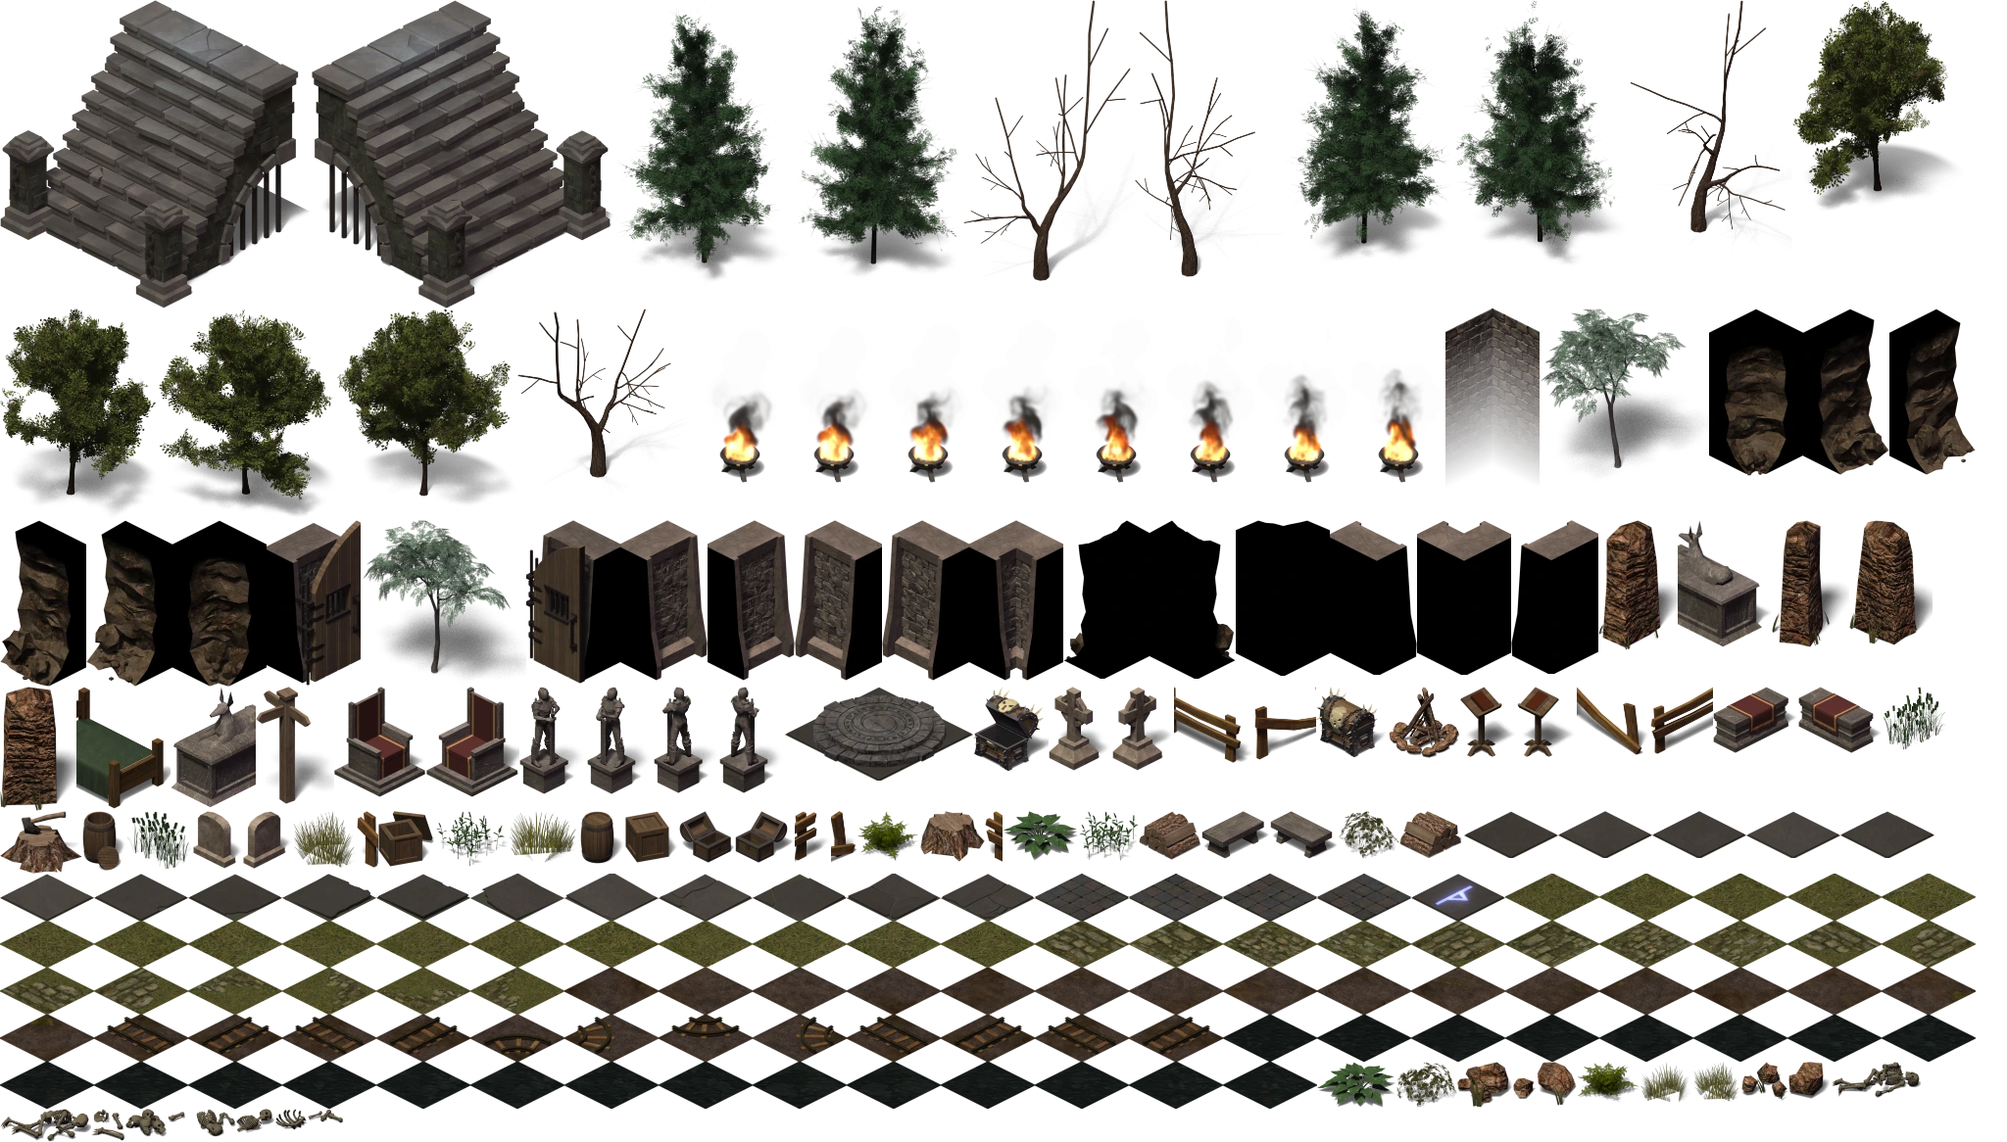
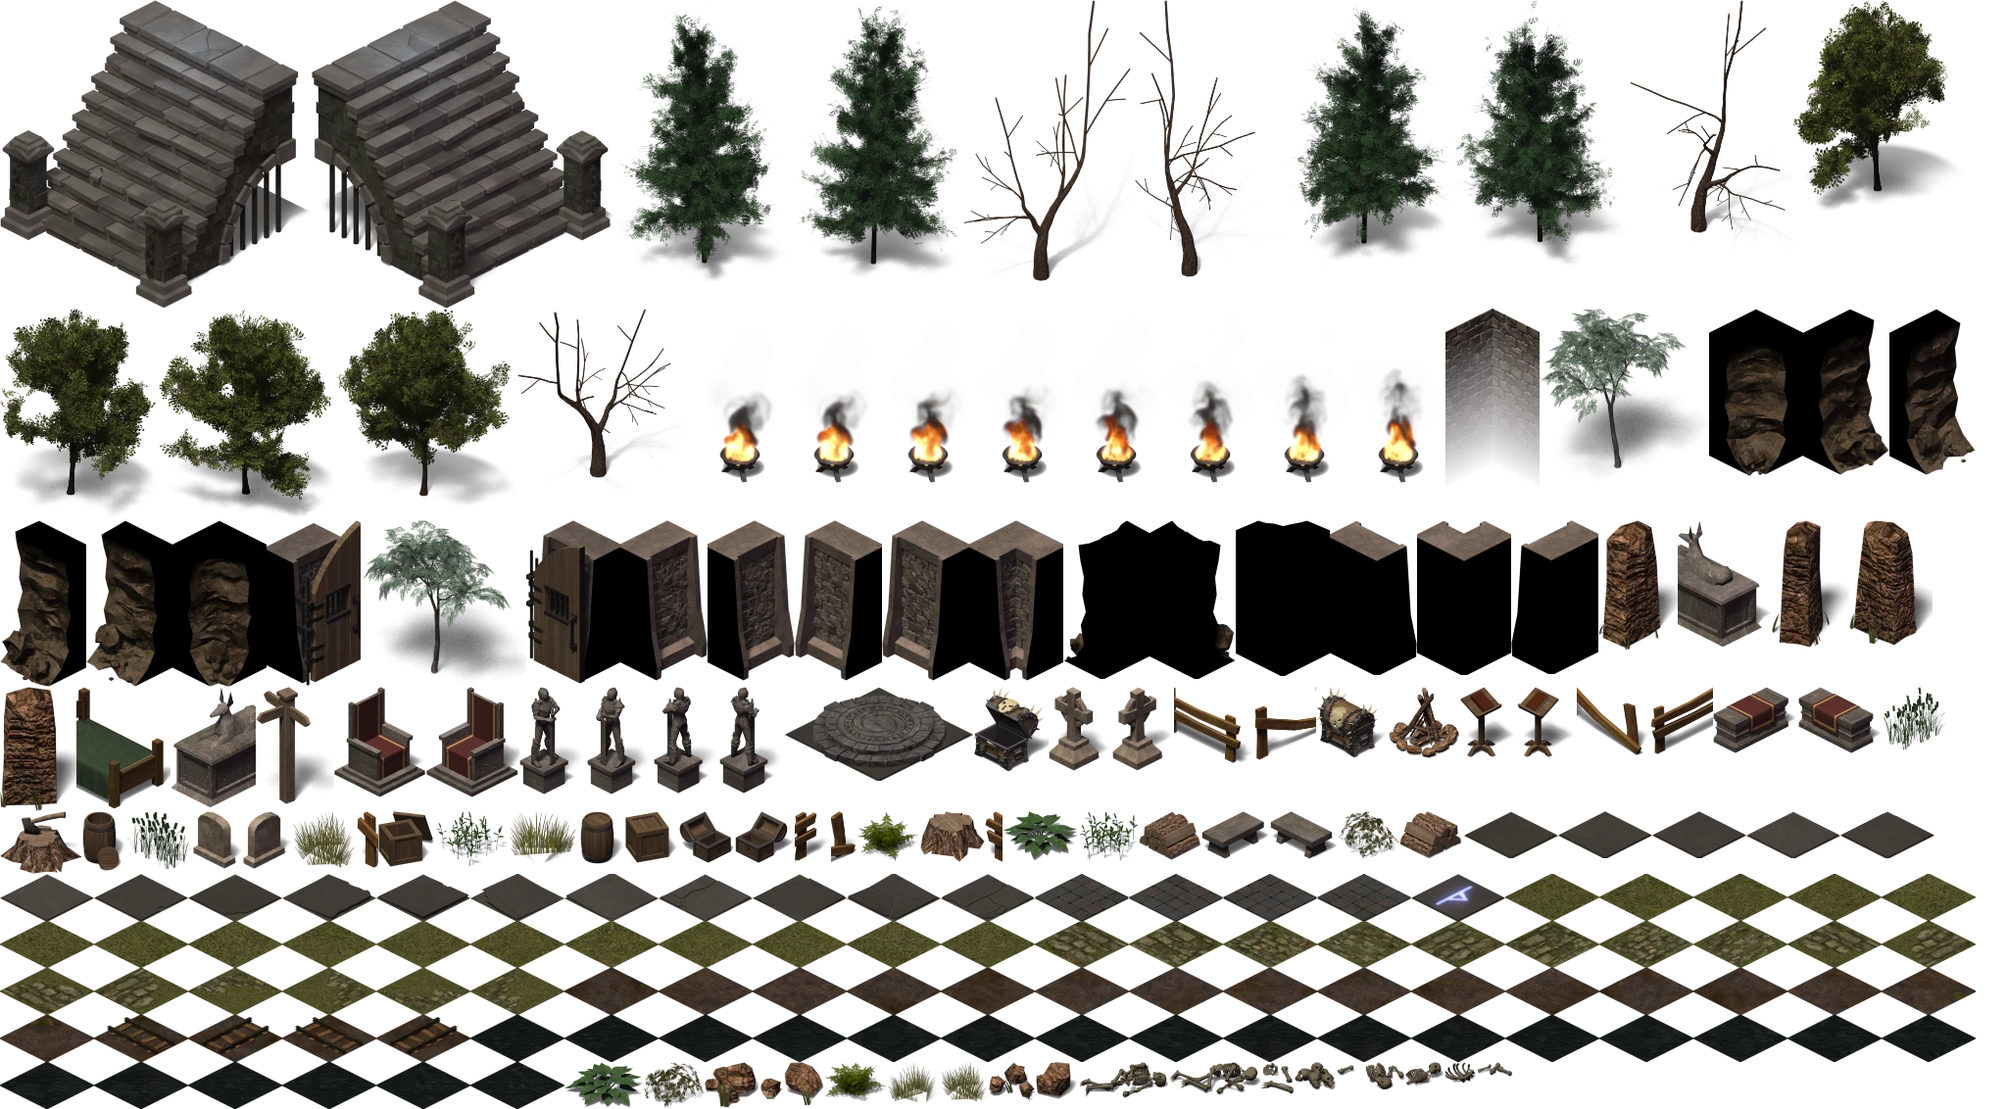
Bring the rats back with a Blender rat, fix the rail-track floors
The cellar's antlings become giant rats again, rendered from a new
procedural rat in render_iso.py (stance, run, bite, flinch, die); the
quest, Bram's and the drunk's lines, the rat tail item and its icon
return to their original forms, with the old item id migrated on load.

The mud road and the forest bridge had been mapped to Flare cave tiles
that are mine-cart rails; mud now uses plain dirt and the bridge and
tavern floors use a Blender-rendered plank tile.

Claude-Session: https://claude.ai/code/session_01G9GNLR8d2AiYk5Q3cEv2Lq

diff --git a/js/data/dialogues.js b/js/data/dialogues.js
@@ -191,7 +191,7 @@ export const DIALOGUES = {
         options: [{ text: 'Show me anyway.', action: (g) => g.openShop("Ysolde's Private Stock", SHOP_YSOLDE_MAGIC, 1.0), next: null }],
       },
       news: {
-        text: "\"Goblins on the south road, so no caravans, so my shelves are thin. Bram's got bugs in his cellar. Mara's still waiting for a boy who isn't coming home. And someone robbed the temple. Cheerful place, Bramblewick.\"",
+        text: "\"Goblins on the south road, so no caravans, so my shelves are thin. Bram's got rats. Mara's still waiting for a boy who isn't coming home. And someone robbed the temple. Cheerful place, Bramblewick.\"",
         options: [{ text: "Let's see your wares.", action: (g) => g.openShop("Ysolde's Goods", SHOP_YSOLDE, 1.0), next: null }, { text: 'Thanks.', next: null }],
       },
     },
@@ -251,7 +251,7 @@ export const DIALOGUES = {
   bram: {
     start: (g) => {
       if (g.questStage('rats') >= 3) return 'after';
-      if (g.questStage('rats') >= 1 && g.countItem('antling_mandible') >= 5) return 'tails';
+      if (g.questStage('rats') >= 1 && g.countItem('rat_tail') >= 5) return 'tails';
       if (g.questStage('rats') === 1) return 'active';
       return 'intro';
     },
@@ -266,10 +266,10 @@ export const DIALOGUES = {
         ],
       },
       rats: {
-        text: "\"Antlings. Burrowing insects the size of dogs, chewing through my stock. My last cellar boy came up screaming about one with mandibles like scythes. Clear them out and bring me five mandibles as proof and I'll pay fifty gold. Stairs are in the back corner.\"",
+        text: "\"Rats. Big ones. In the cellar, chewing through my stock. My last cellar boy came up screaming about a rat the size of a dog. Clear them out and bring me five tails as proof and I'll pay fifty gold. Stairs are in the back corner.\"",
         options: [
           { text: "Consider it done.", action: (g) => g.setQuest('rats', 1), next: 'accept' },
-          { text: "I don't do bugs.", next: null },
+          { text: "I don't do rats.", next: null },
         ],
       },
       accept: {
@@ -277,12 +277,12 @@ export const DIALOGUES = {
         options: [{ text: 'Right.', next: null }],
       },
       active: {
-        text: "\"Five mandibles, friend, and fifty gold is yours. The cellar stairs are in the corner.\"",
+        text: "\"Five tails, friend, and fifty gold is yours. The cellar stairs are in the corner.\"",
         options: [{ text: 'Working on it.', next: null }],
       },
       tails: {
-        text: "Bram grimaces at the handful of mandibles, then laughs. \"Ha! That's them. And the big one too, I hope. Here's your fifty, and a drink on the house.\"",
-        options: [{ text: 'Pleasure doing business.', action: (g) => { g.removeItem('antling_mandible', 5); g.addGold(50); g.completeQuest('rats'); }, next: null }],
+        text: "Bram grimaces at the handful of tails, then laughs. \"Ha! That's them. And the big one too, I hope. Here's your fifty, and a drink on the house.\"",
+        options: [{ text: 'Pleasure doing business.', action: (g) => { g.removeItem('rat_tail', 5); g.addGold(50); g.completeQuest('rats'); }, next: null }],
       },
       after: {
         text: "\"My cellar's quiet at last. Ale's on the house for you, always.\"",
@@ -405,7 +405,7 @@ export const DIALOGUES = {
   drunk: {
     start: () => 'intro',
     nodes: {
-      intro: { text: "\"Th' bugs... they've got a queen down there. Big as a hound. Saw her mandibles.\" He slumps back onto the table.", options: [{ text: 'Sleep it off.', next: null }] },
+      intro: { text: "\"Th' rats... they've got a queen down there. Big as a hound. Saw her eyes.\" He slumps back onto the table.", options: [{ text: 'Sleep it off.', next: null }] },
     },
   },
 };

diff --git a/js/game/game.js b/js/game/game.js
@@ -718,7 +718,7 @@ export class Game {
     if (id === 'silver_locket' && this.questStage('locket') === 1) { this.setQuest('locket', 2); }
     if (id === 'silver_locket' && this.questStage('locket') === 0) { this.log('A tarnished silver locket. Someone in town may be missing it.', 'info'); }
     if (id === 'goblin_chief_head' && this.questStage('goblins') === 1) this.setQuest('goblins', 2);
-    if (id === 'antling_mandible' && this.questStage('rats') === 1 && E.countItem(this.player, 'antling_mandible') >= 5) this.setQuest('rats', 2);
+    if (id === 'rat_tail' && this.questStage('rats') === 1 && E.countItem(this.player, 'rat_tail') >= 5) this.setQuest('rats', 2);
   }
 
   // ------------------------------------------------------------ area transitions
@@ -986,7 +986,7 @@ export class Game {
       this.areas[id] = fresh;
     }
     // item ids renamed since the save was written
-    const LEGACY_ITEMS = { antlion_chitin: 'wolf_pelt' };
+    const LEGACY_ITEMS = { antlion_chitin: 'wolf_pelt', antling_mandible: 'rat_tail' };
     const migrate = (list) => { for (const it of list || []) if (LEGACY_ITEMS[it.id]) it.id = LEGACY_ITEMS[it.id]; };
     for (const c of [d.player, d.henchman]) if (c) migrate(c.inventory);
     for (const a of Object.values(this.areas)) for (const e of a.entities) { if (e.inventory) migrate(e.inventory); if (e.loot && e.loot.items) e.loot.items = e.loot.items.map(id => LEGACY_ITEMS[id] || id); }

diff --git a/js/data/monsters.js b/js/data/monsters.js
@@ -1,14 +1,14 @@
 // Monster templates. hp is dice; attack is bonus; damage is dice string.
 export const MONSTERS = {
   giant_rat: {
-    name: 'Antling', sprite: 'antlion_small', spriteScale: 0.8, creatureType: 'animal', hp: '1d8+1', ac: 14, attack: 2, damage: '1d4', speed: 3.2, xp: 25,
+    name: 'Giant Rat', sprite: 'rat', spriteScale: 1.15, creatureType: 'animal', hp: '1d8+1', ac: 14, attack: 2, damage: '1d4', speed: 3.2, xp: 25,
     saves: { fort: 3, ref: 3, will: 1 }, aggro: 5, color: '#8a7a6a', shape: 'small', size: 0.6,
-    loot: { gold: [0, 2], items: [{ id: 'antling_mandible', chance: 1 }] },
+    loot: { gold: [0, 2], items: [{ id: 'rat_tail', chance: 1 }] },
   },
   dire_rat: {
-    name: 'Brood Antling', sprite: 'antlion_small', spriteScale: 1.05, creatureType: 'animal', hp: '2d8+3', ac: 15, attack: 4, damage: '1d6+1', speed: 3.4, xp: 60,
+    name: 'Dire Rat', sprite: 'rat', spriteScale: 1.35, creatureType: 'animal', hp: '2d8+3', ac: 15, attack: 4, damage: '1d6+1', speed: 3.4, xp: 60,
     saves: { fort: 4, ref: 4, will: 2 }, aggro: 6, color: '#5a4a3a', shape: 'small', size: 0.8,
-    loot: { gold: [0, 5], items: [{ id: 'antling_mandible', chance: 1 }] },
+    loot: { gold: [0, 5], items: [{ id: 'rat_tail', chance: 1 }] },
   },
   wolf: {
     name: 'Wolf', sprite: 'wolf', spriteScale: 1.0, creatureType: 'animal', hp: '2d8+4', ac: 14, attack: 3, damage: '1d6+1', speed: 3.6, xp: 70,

diff --git a/js/data/icons.js b/js/data/icons.js
@@ -33,7 +33,7 @@ export const ICONS = {
   // ---- misc
   thieves_tools: 'delapouite/lockpicks', holy_symbol: 'lorc/holy-symbol', torch: 'delapouite/torch', silver_locket: 'delapouite/heart-necklace',
   goblin_chief_head: 'delapouite/goblin-head', crypt_key: 'lorc/skeleton-key', cult_letter: 'lorc/scroll-unfurled', gem_ruby: 'lorc/gems', gem_sapphire: 'lorc/crystal-bars',
-  wolf_pelt: 'delapouite/animal-hide', antling_mandible: 'lorc/insect-jaws', gold: 'delapouite/two-coins',
+  wolf_pelt: 'delapouite/animal-hide', rat_tail: 'delapouite/rat', gold: 'delapouite/two-coins',
   // ---- fallbacks by item type
   type_weapon: 'lorc/broadsword', type_armor: 'lorc/breastplate', type_shield: 'lorc/crenulated-shield', type_ring: 'delapouite/ring', type_amulet: 'lorc/gem-pendant',
   type_cloak: 'lucasms/cloak', type_boots: 'lorc/boots', type_potion: 'lorc/standing-potion', type_misc: 'lorc/swap-bag', type_key: 'lorc/skeleton-key', type_gem: 'lorc/gems',

diff --git a/js/data/quests.js b/js/data/quests.js
@@ -1,10 +1,10 @@
 export const QUESTS = {
   rats: {
-    name: 'Vermin in the Cellar', xp: 150,
+    name: 'Rats in the Cellar', xp: 150,
     stages: {
-      1: 'Bram, the innkeeper of the Rusty Tankard, has antlings nesting in his cellar. He will pay for five antling mandibles.',
-      2: 'I have collected enough antling mandibles. I should return to Bram for my reward.',
-      3: 'Bram paid me for clearing out his cellar. The Rusty Tankard is free of vermin, for now.',
+      1: 'Bram, the innkeeper of the Rusty Tankard, is overrun with rats in his cellar. He will pay for five rat tails.',
+      2: 'I have collected enough rat tails. I should return to Bram for my reward.',
+      3: 'Bram paid me for clearing out his cellar. The Rusty Tankard is rat-free, for now.',
     },
     done: 3,
   },

diff --git a/js/game/renderer.js b/js/game/renderer.js
@@ -184,7 +184,7 @@ export class Renderer {
   // Which floor art a tile shows. Object tiles borrow the floor of a walkable neighbour.
   floorName(x, y, ch) {
     const a = this.game.area;
-    const direct = { '.': 'floor_grass', ',': 'floor_dirt', 'm': 'floor_mud', ':': 'floor_stone', '=': a.outdoor ? 'floor_planks' : 'floor_tile', 'r': 'floor_rug', '~': 'water', 's': 'floor_stone', 'b': 'floor_stone' };
+    const direct = { '.': 'floor_grass', ',': 'floor_dirt', 'm': 'floor_mud', ':': 'floor_stone', '=': this.assets.tiles.planks ? 'planks' : (a.outdoor ? 'floor_planks' : 'floor_tile'), 'r': 'floor_rug', '~': 'water', 's': 'floor_stone', 'b': 'floor_stone' };
     if (direct[ch]) {
       if (ch === '.' && hash(x, y, 3) % 5 === 0) return 'floor_grass_alt';
       return direct[ch];

diff --git a/js/data/items.js b/js/data/items.js
@@ -70,7 +70,7 @@ export const ITEMS = {
   gem_ruby: { name: 'Ruby', type: 'gem', value: 150, weight: 0, stack: true, desc: 'A blood-red gemstone.' },
   gem_sapphire: { name: 'Sapphire', type: 'gem', value: 250, weight: 0, stack: true, desc: 'A deep blue gemstone.' },
   wolf_pelt: { name: 'Wolf Pelt', type: 'misc', value: 15, weight: 3, stack: true, desc: 'A thick grey pelt. Could be sold to a trader.' },
-  antling_mandible: { name: 'Antling Mandible', type: 'misc', value: 1, weight: 0, stack: true, desc: 'Proof of a slain antling. Bram wants these.' },
+  rat_tail: { name: 'Rat Tail', type: 'misc', value: 1, weight: 0, stack: true, desc: 'Proof of a slain rat. Bram wants these.' },
 };
 
 export const EQUIP_SLOTS = ['weapon', 'armor', 'shield', 'ring', 'amulet', 'cloak', 'boots'];

diff --git a/js/data/areas.js b/js/data/areas.js
@@ -168,7 +168,7 @@ function buildCellar() {
       { type: 'monster', tid: 'giant_rat', x: 15, y: 5 },
       { type: 'monster', tid: 'giant_rat', x: 4, y: 10 },
       { type: 'monster', tid: 'giant_rat', x: 10, y: 11 },
-      { type: 'monster', tid: 'dire_rat', x: 14, y: 10, name: 'Brood Mother' },
+      { type: 'monster', tid: 'dire_rat', x: 14, y: 10, name: 'Rat Matriarch' },
       { type: 'chest', x: 15, y: 9, loot: { gold: 18, items: ['potion_cure_light', 'dagger'] } },
     ],
   };

diff --git a/tools/blender/render_iso.py b/tools/blender/render_iso.py
@@ -14,8 +14,9 @@ Run inside Blender or with the pip `bpy` module:
     blender -b -P tools/blender/render_iso.py -- creature --blend wolf.blend --object Wolf --name wolf \
         --actions stance=Idle,run=Run,swing=Bite,hit=Hit,die=Death [--frames 8] [--scale 1.0] [--forward -Y]
 
-    # the built-in procedurally animated wolf (stance, run, swing, hit, die in 8 directions):
+    # the built-in procedurally animated creatures (stance, run, swing, hit, die in 8 directions):
     python tools/blender/render_iso.py --size 384 builtin wolf
+    python tools/blender/render_iso.py --size 384 builtin rat
 
     # sanity check of directions and lighting with a probe object:
     python tools/blender/render_iso.py test-dirs
@@ -122,7 +123,7 @@ def setup_lights(scene, cam):
 
 
 # ---------------------------------------------------------------- materials
-def material(name, color, roughness=0.8, noise=None, wave=None, bump=None):
+def material(name, color, roughness=0.8, noise=None, wave=None, bump=None, wave_axis='Z'):
     """Principled material; `noise` = (scale, dark_color) mixes a noise pattern, `wave` = (scale, dark_color)
     adds horizontal bands (logs, planks)."""
     m = bpy.data.materials.new(name)
@@ -146,7 +147,7 @@ def material(name, color, roughness=0.8, noise=None, wave=None, bump=None):
         else:
             tex = nodes.new('ShaderNodeTexWave')
             tex.wave_type = 'BANDS'
-            tex.bands_direction = 'Z'
+            tex.bands_direction = wave_axis
             tex.wave_profile = 'SAW'
             tex.inputs['Scale'].default_value = wave[0]
             tex.inputs['Distortion'].default_value = 0.6
@@ -253,7 +254,19 @@ def build_probe():
     cube((0, -0.55, 0.7), (0.2, 0.5, 0.2), nose, 'nose')
 
 
-PROPS = {'well': build_well, 'logblock': build_logblock, 'palisade': build_palisade}
+def build_planks():
+    """A flat floor of wooden planks covering one tile, for bridges and tavern floors."""
+    wood = material('planks', (0.21, 0.13, 0.06), wave=(22, (0.09, 0.05, 0.02)), bump=(40, 0.25), wave_axis='Y')
+    beam = material('beam', (0.14, 0.09, 0.04), wave=(14, (0.07, 0.04, 0.02)), wave_axis='X')
+    n = 7
+    for i in range(n):
+        x = -0.5 + (i + 0.5) / n
+        cube((x, 0, 0.035 + 0.004 * (i % 2)), (0.86 / n, 1.0, 0.05), wood, f'plank{i}')
+    cube((0, -0.47, 0.02), (1.0, 0.07, 0.06), beam, 'beam_a')
+    cube((0, 0.47, 0.02), (1.0, 0.07, 0.06), beam, 'beam_b')
+
+
+PROPS = {'well': build_well, 'logblock': build_logblock, 'palisade': build_palisade, 'planks': build_planks}
 
 
 # ---------------------------------------------------------------- built-in creature: wolf
@@ -401,7 +414,88 @@ def build_wolf():
     return root, pose
 
 
-CREATURES = {'wolf': build_wolf}
+def build_rat():
+    """A giant rat facing -Y, about two thirds of a tile long."""
+    fur = material('rat_fur', (0.24, 0.19, 0.15), noise=(18, (0.10, 0.08, 0.06)), bump=(70, 0.35))
+    fur_light = material('rat_belly', (0.42, 0.36, 0.30), noise=(18, (0.26, 0.22, 0.18)), bump=(70, 0.3))
+    skin = material('rat_skin', (0.55, 0.36, 0.34), roughness=0.6)
+    dark = material('rat_dark', (0.02, 0.02, 0.02), roughness=0.35)
+    root = pivot('Rat', (0, 0, 0), None)
+    body = pivot('pose', (0, 0, 0), root)
+    sphere((0, 0.02, 0.16), (0.15, 0.30, 0.14), fur, 'torso', body)
+    sphere((0, 0.14, 0.16), (0.15, 0.17, 0.15), fur, 'haunches', body)
+    sphere((0, -0.14, 0.15), (0.13, 0.15, 0.12), fur, 'chest', body)
+    sphere((0, 0.0, 0.10), (0.11, 0.26, 0.08), fur_light, 'belly', body)
+    head = pivot('head', (0, -0.30, 0.17), body)
+    sphere((0, -0.03, 0), (0.09, 0.14, 0.085), fur, 'skull', head)
+    sphere((0, -0.16, -0.02), (0.05, 0.10, 0.045), fur_light, 'snout', head)
+    sphere((0, -0.26, -0.025), (0.018, 0.02, 0.016), skin, 'nose', head)
+    for sx in (-1, 1):
+        sphere((sx * 0.055, -0.09, 0.02), (0.016, 0.014, 0.016), dark, f'eye{sx}', head)
+        sphere((sx * 0.07, 0.02, 0.08), (0.05, 0.018, 0.05), skin, f'ear{sx}', head)
+        sphere((sx * 0.07, 0.03, 0.08), (0.055, 0.012, 0.055), fur, f'ear_back{sx}', head)
+    legs = {}
+    for name, (x, y) in {'fl': (-0.10, -0.17), 'fr': (0.10, -0.17), 'bl': (-0.11, 0.16), 'br': (0.11, 0.16)}.items():
+        p = pivot('leg_' + name, (x, y, 0.13), body)
+        bpy.ops.mesh.primitive_cylinder_add(vertices=8, radius=0.028, depth=0.14, location=(0, 0, -0.06))
+        leg = bpy.context.active_object
+        leg.name = 'legmesh_' + name
+        leg.data.materials.append(fur)
+        leg.parent = p
+        sphere((0, -0.015, -0.13), (0.035, 0.05, 0.02), skin, 'paw_' + name, p)
+        legs[name] = p
+    tail = pivot('tail', (0, 0.30, 0.13), body)
+    for i, (y, z, r, ln, rx) in enumerate([(0.12, -0.03, 0.022, 0.26, -75), (0.34, -0.09, 0.015, 0.24, -95), (0.53, -0.10, 0.009, 0.18, -100)]):
+        bpy.ops.mesh.primitive_cylinder_add(vertices=8, radius=r, depth=ln, location=(0, y, z), rotation=(math.radians(rx), 0, 0))
+        seg = bpy.context.active_object
+        seg.name = f'tail{i}'
+        seg.data.materials.append(skin)
+        seg.parent = tail
+    bpy.context.view_layer.update()
+
+    def pose(anim, t):
+        w = 2 * math.pi * t
+        body.location = (0, 0, 0)
+        body.rotation_euler = (0, 0, 0)
+        head.rotation_euler = (0, 0, 0)
+        tail.rotation_euler = (0, 0, 0)
+        for p in legs.values():
+            p.rotation_euler = (0, 0, 0)
+        if anim == 'stance':
+            body.location = (0, 0, 0.006 * math.sin(w))
+            head.rotation_euler = (math.radians(7 * math.sin(w)), 0, math.radians(8 * math.sin(w / 2)))
+            tail.rotation_euler = (0, 0, math.radians(10 * math.sin(w)))
+        elif anim == 'run':
+            swing = math.radians(42)
+            for name, phase in (('fl', 0), ('br', 0), ('fr', math.pi), ('bl', math.pi)):
+                legs[name].rotation_euler.x = swing * math.sin(w + phase)
+            body.location = (0, 0, 0.02 * abs(math.sin(w)))
+            body.rotation_euler.x = math.radians(3 * math.sin(w))
+            tail.rotation_euler = (0, 0, math.radians(12 * math.sin(w)))
+        elif anim == 'swing':
+            k = math.sin(math.pi * t)
+            body.location = (0, -0.14 * k, 0.03 * k)
+            body.rotation_euler.x = math.radians(-8 * k)
+            head.rotation_euler.x = math.radians(24 * k)
+            legs['fl'].rotation_euler.x = math.radians(-45 * k)
+            legs['fr'].rotation_euler.x = math.radians(-45 * k)
+        elif anim == 'hit':
+            k = math.sin(math.pi * t)
+            body.location = (0, 0.06 * k, 0)
+            body.rotation_euler.x = math.radians(12 * k)
+            head.rotation_euler.x = math.radians(-18 * k)
+        elif anim == 'die':
+            k = min(1, t * 1.25)
+            e = 1 - (1 - k) ** 2
+            body.rotation_euler = (math.radians(-5 * e), math.radians(86 * e), 0)
+            body.location = (0.03 * e, 0, -0.11 * e)
+            head.rotation_euler.x = math.radians(15 * e)
+            for p in legs.values():
+                p.rotation_euler.x = math.radians(30 * e)
+    return root, pose
+
+
+CREATURES = {'wolf': build_wolf, 'rat': build_rat}
 
 
 

diff --git a/README.md b/README.md
@@ -16,7 +16,7 @@ Then open <http://localhost:8000/>. It also works when published on GitHub Pages
 
 ## The game
 
-You arrive in the town of Bramblewick. Goblins raid the south road, antlings infest the tavern cellar, a widow's son never came home from the woods, and someone has stolen the Amulet of Dawn from the temple. The trail leads through the Whispering Woods to the Sunken Crypt, where the Pale Hand cult and the necromancer Malachar wait.
+You arrive in the town of Bramblewick. Goblins raid the south road, rats infest the tavern cellar, a widow's son never came home from the woods, and someone has stolen the Amulet of Dawn from the temple. The trail leads through the Whispering Woods to the Sunken Crypt, where the Pale Hand cult and the necromancer Malachar wait.
 
 Five areas: Bramblewick, the Rusty Tankard tavern, its cellar, the Whispering Woods and the Sunken Crypt. Five quests, a hireable ranger companion, shops, a temple healer, a locked sanctum, trapped corridors, wolves and fire ants in the woods, a minotaur in a cave, and a final boss who raises the dead.
 
@@ -68,7 +68,8 @@ node tools/build-assets.mjs /path/to/flare-game
 `tools/blender/render_iso.py` renders models through a camera that matches the Flare projection (one Blender unit is one map tile) and writes files the game loads from `assets/extra/`. It works inside Blender (`blender -b -P tools/blender/render_iso.py -- ...`) or with the `bpy` pip package.
 
 ```
-python tools/blender/render_iso.py props                      # built-in well, log-cabin wall block, palisade
+python tools/blender/render_iso.py props                      # built-in well, log-cabin wall block, palisade, planks
+python tools/blender/render_iso.py --size 384 builtin wolf    # animated wolf; also: builtin rat
 python tools/blender/render_iso.py test-dirs                  # probe object in the 8 facing directions
 python tools/blender/render_iso.py creature --blend wolf.blend --object Wolf --name wolf \
     --actions stance=Idle,run=Run,swing=Bite,hit=Hit,die=Death --frames 8 --scale 0.8
